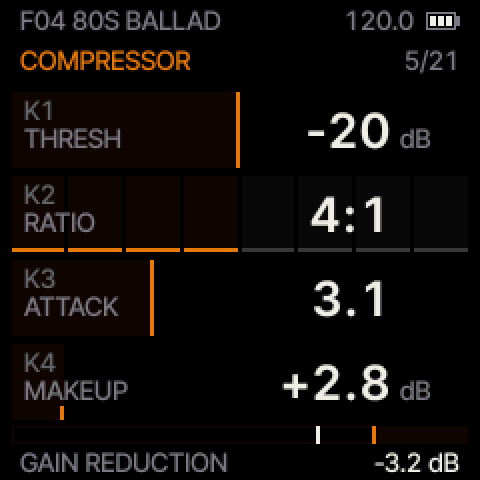
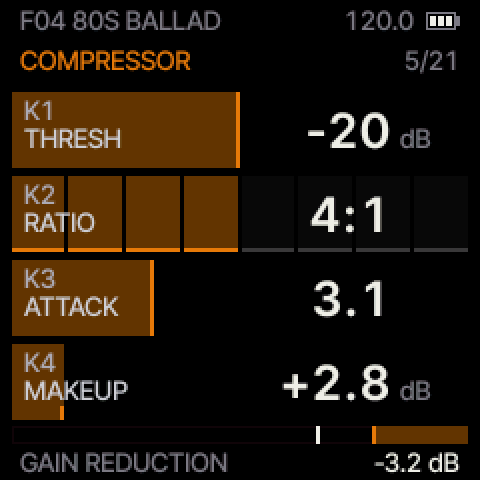
UI: the fader fill a warm amber at 45 % of the accent by default (the user approved final-A24-fill45.png)
The user: "i said that i like the orange/yellow effect on the fader" (the dim token read near black). Design A,
24 px, breathing, now with UI_FILL_PCT 45 by default (ui.c): the fader fill and the lit selector blocks are the
palette's accent x 45 %; on a fill the K tag and label are lighter greys (RGB 170 / 206), the turned knob's label
white there (amber would vanish; the 1 px amber frame still marks it). Look C on AMBER keeps its matched fill.
UI_FILL_PCT 30 / 60 and UI_FILL_GRAD 1 (15 -> 60 % toward the edge) stay as build defines (tools/cards_sheet.py
--fill). Merged main (ce73a1f). Screenshots regenerated in the framebuffer's colours (every page, overview.png,
piano.png); MANUAL: the fill's colour, the turned label on a fill. test_ui_cards: the turned label white on a fill.

Tested: make test (all ok); make pytest 629 passed; Gate R 69/69 byte-identical; ./build.sh with every build.py
check ok: image 411704 B of 581564, RAM 52452 B, fonts AF_S 16556 + AF_V24 7010 + FONT_S 9500 = 33066 B;
web/build.sh builds (not published). Not on the FM-1.

Claude-Session: https://claude.ai/code/session_01Dz8MB3aMWQ3NXyFVXtBmgi

Changed region(s): [[0.0, 0.1875, 0.5, 0.875], [0.7812, 0.875, 1.0, 0.9375]]

diff --git a/tests/py/test_ui_cards.py b/tests/py/test_ui_cards.py
@@ -369,7 +369,9 @@ def test_cards_hot_frame(variant):
             box = M.row_box(im, j)
             fo, tb = M.frame_on(im, box, acc)
             x0, y0 = M.ROW_X0, M.ROW_Y0 + M.ROW_DY * j               # the label's accent cores (its box)
-            lab = int(M.is_acc(im[y0 + base - 10:y0 + base, x0 + 6:x0 + 6 + 40], acc).sum())
+            lb = im[y0 + base - 10:y0 + base, x0 + 6:x0 + 6 + 40]
+            on_fill = b is not None and j == k and b["fw"] > 6 and b["style"] in "FS"   # (the label on the fill:
+            lab = int((M.white(lb) if on_fill else M.is_acc(lb, acc)).sum())          # white, amber would vanish)
             on = dt < 1000 and j == k
             if on and (fo < 0.8 or lab < 8):
                 errs.append(f"{NAMES[variant]} K{k + 1} +{dt}: row {j + 1} no frame ({fo:.2f}) / label ({lab})")

diff --git a/firmware/src/ui.c b/firmware/src/ui.c
@@ -251,7 +251,7 @@ static void mt_update(void)                             /* the tokens for the lo
     mt.fill = amber && l->amb_fill ? l->amb_fill : (uint16_t)((rr << 11) | (gg << 5) | bb);
 #if UI_FILL_PCT > 0                                     /* the fill as a share of the accent (the user: "the orange /
                                                          * yellow effect on the fader"; the strength sheet) */
-    mt.fill = cd_shade(amber && l->amb_acc ? l->amb_acc : pal[3], UI_FILL_PCT);
+    if (!(amber && l->amb_fill)) mt.fill = cd_shade(pal[3], UI_FILL_PCT);   /* (look C on AMBER: its own, matched) */
 #endif
     mt.acc = mt.edge = mt.frame = amber && l->amb_acc ? l->amb_acc : pal[3];
     mt.surf = l->surf; mt.track = l->track; mt.outline = l->outline; mt.hair = l->hair; mt.seq = l->seq;

diff --git a/docs/MANUAL.md b/docs/MANUAL.md
@@ -64,7 +64,7 @@ order; changing the TYPE changes the pages with it.
 figures, every value the same size and ending at the same place, with the unit beside it in small letters (Hz, kHz,
 ms, s, dB, c for cents, %). What is drawn behind the value tells you at a glance what kind of control it is:
 
-- **An amount** (DEPTH, MIX, a time, a frequency ...): the card is a fader. It fills with dim amber from the left up
+- **An amount** (DEPTH, MIX, a time, a frequency ...): the card is a fader. It fills with warm amber from the left up
   to the value, with a bright amber edge where the fill ends (the edge stops short of the letters, so it never cuts a
   number): empty at 0, full at the top.
 - **A selector** (TYPE, EFFECT DIG / ANA, a filter type, a note value, a scale, a chord type ...): the card is cut
@@ -80,7 +80,7 @@ ms, s, dB, c for cents, %). What is drawn behind the value tells you at a glance
 A few names too long for their card are written shorter, in the same large letters: on ASSIGN **TRM/WAH**, **TRM
 RATE**, **TRM SHP**, **PHA SPD**, **PHA FDBK**, **CHO SPD**, **DLY FDBK**, **CMP GAIN** (the compressor's make-up).
 
-**The card you are turning** gets a thin amber frame and its name turns amber, for about a second after you stop.
+**The card you are turning** gets a thin amber frame and its name turns amber (white where it sits on the fill), for about a second after you stop.
 The numbers are rounded to what fits on the card (1.486 s shows 1.5 s, +11.8 dB shows +12 dB).
 
 The top line shows the preset, the octave (O+1, O−2...), **SUS** while the sustain is held, **BYP** while the effects
